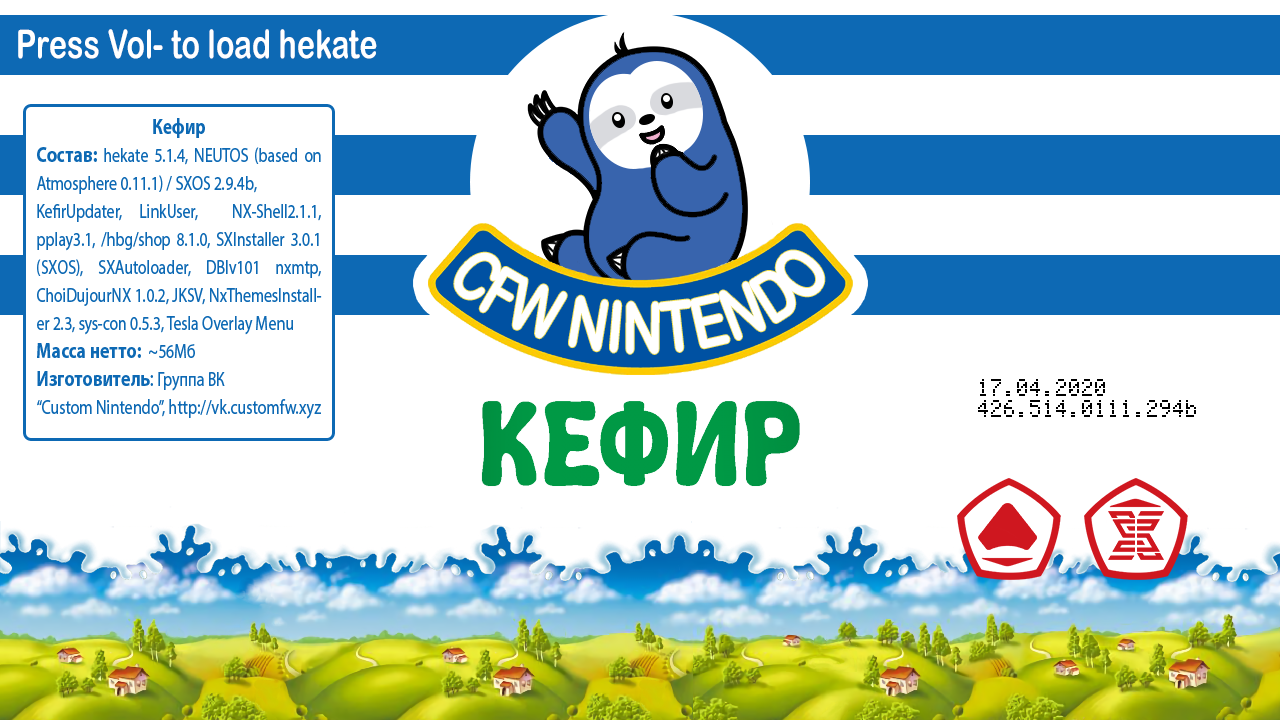
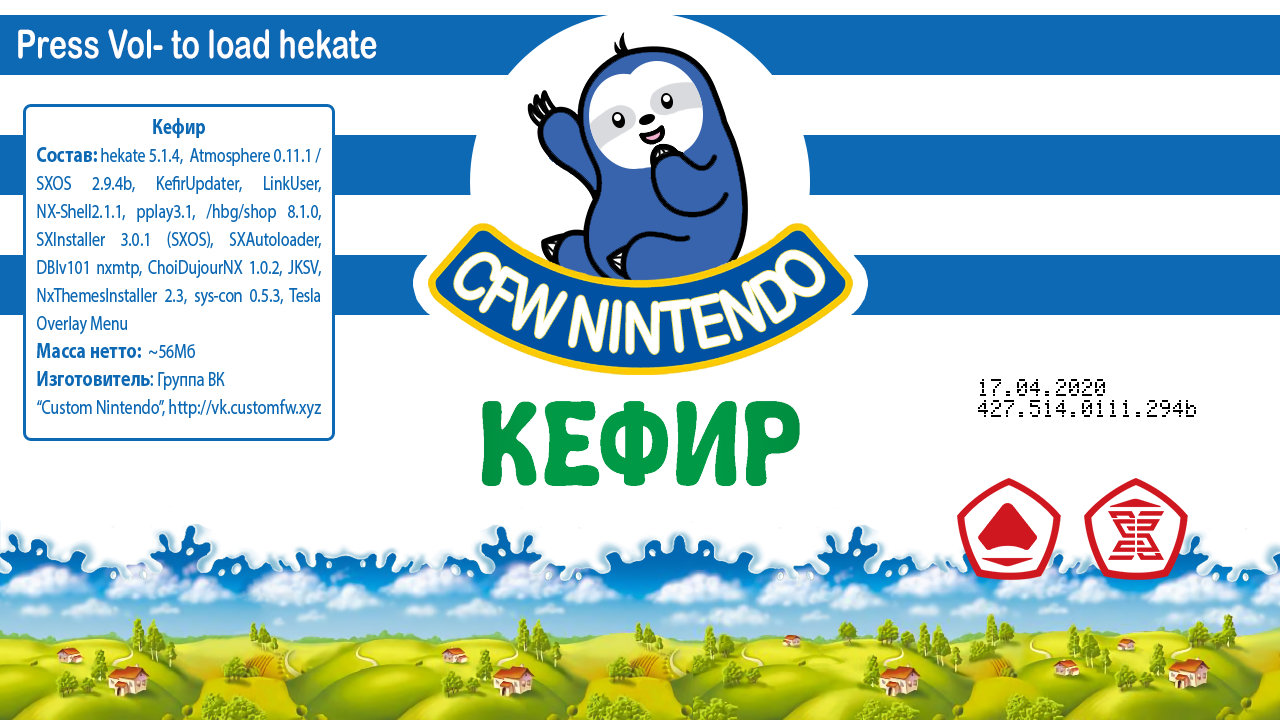
kefir427

Changed region(s): [[0.0312, 0.1833, 0.25, 0.4583]]

diff --git a/kefir.html b/kefir.html
@@ -335,7 +335,7 @@
 <nav class="toc">
     <header><h4 class="nav__title"><i class="fa fa-file-text"></i> Разделы</h4></header>
 <ul class="toc__menu" id="markdown-toc">
-  <li><a href="#kefir-426" id="markdown-toc-kefir-426">KEFIR 426</a>    <ul>
+  <li><a href="#kefir-427" id="markdown-toc-kefir-427">KEFIR 427</a>    <ul>
       <li><a href="#внимание" id="markdown-toc-внимание"><strong>ВНИМАНИЕ!</strong></a></li>
       <li><a href="#состав-kefir" id="markdown-toc-состав-kefir">Состав kefir</a></li>
       <li><a href="#changelog" id="markdown-toc-changelog">Changelog</a></li>
@@ -357,7 +357,7 @@
 
 <hr />
 
-<h2 id="kefir-426">KEFIR 426</h2>
+<h2 id="kefir-427">KEFIR 427</h2>
 
 <!--В данный момент всем, у кого прошивка 9.0.1 или ниже рекомендуется использовать [последний релизный кефир](https://github.com/rashevskyv/switch/releases/tag/332){:target="_blank"}. [Кефир 400](https://github.com/rashevskyv/switch/releases){:target="_blank"} предназначен в первую очередь для тех, кто установил себе 9.1.0! Покуда версия пре-релизная, её можно установить только вручную!-->
 
@@ -424,7 +424,7 @@
 
 <ul>
   <li>[Исправлено] Исправлен баз из-за которого не работал сиснанд</li>
-  <li>[Заменено] Atmo на NEUTOS 0.11.1 - форк атмы с поддержкой tinfoil</li>
+  <li>[Заменено] Atmosphere снова вернулась, tinfoil работает</li>
   <li>[Обновлено] hekate 5.1.4</li>
   <li>[Обновлено] DBI v101</li>
   <li>[Обновлено] JKSV 04.10.2020p</li>
